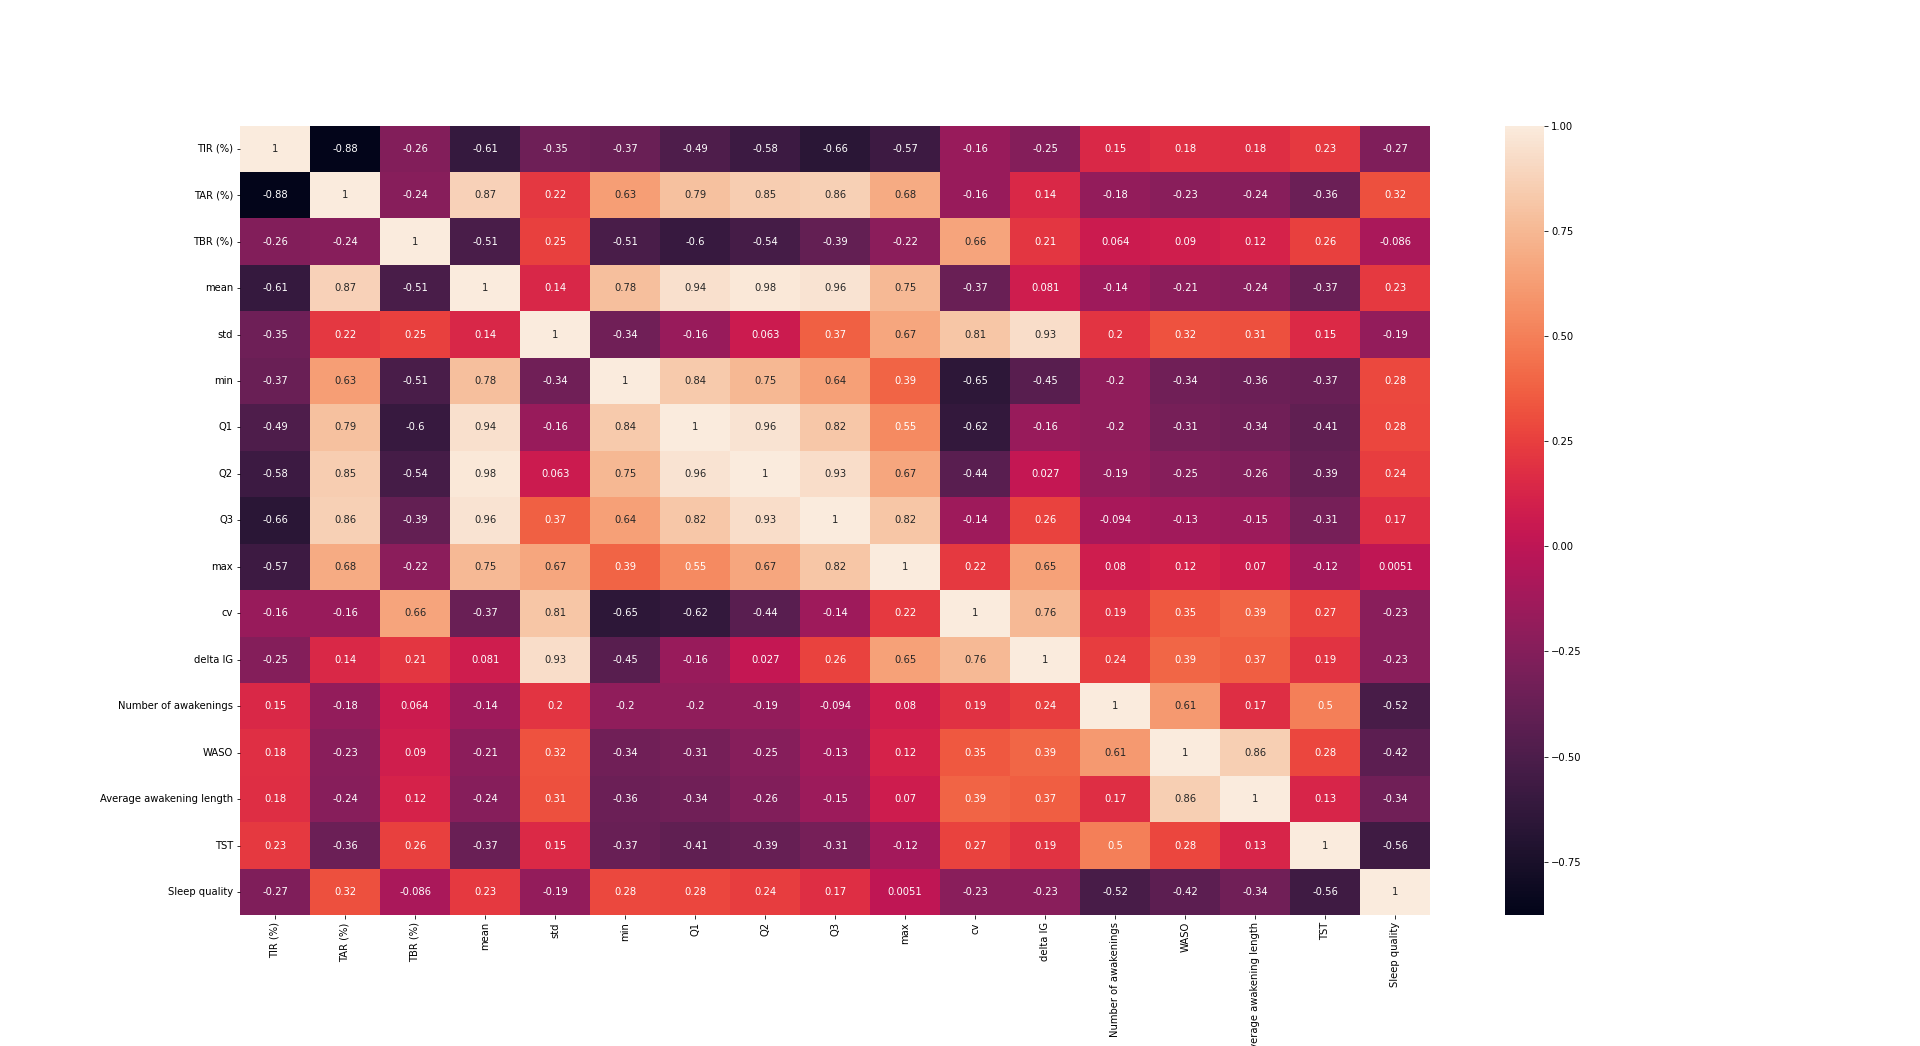
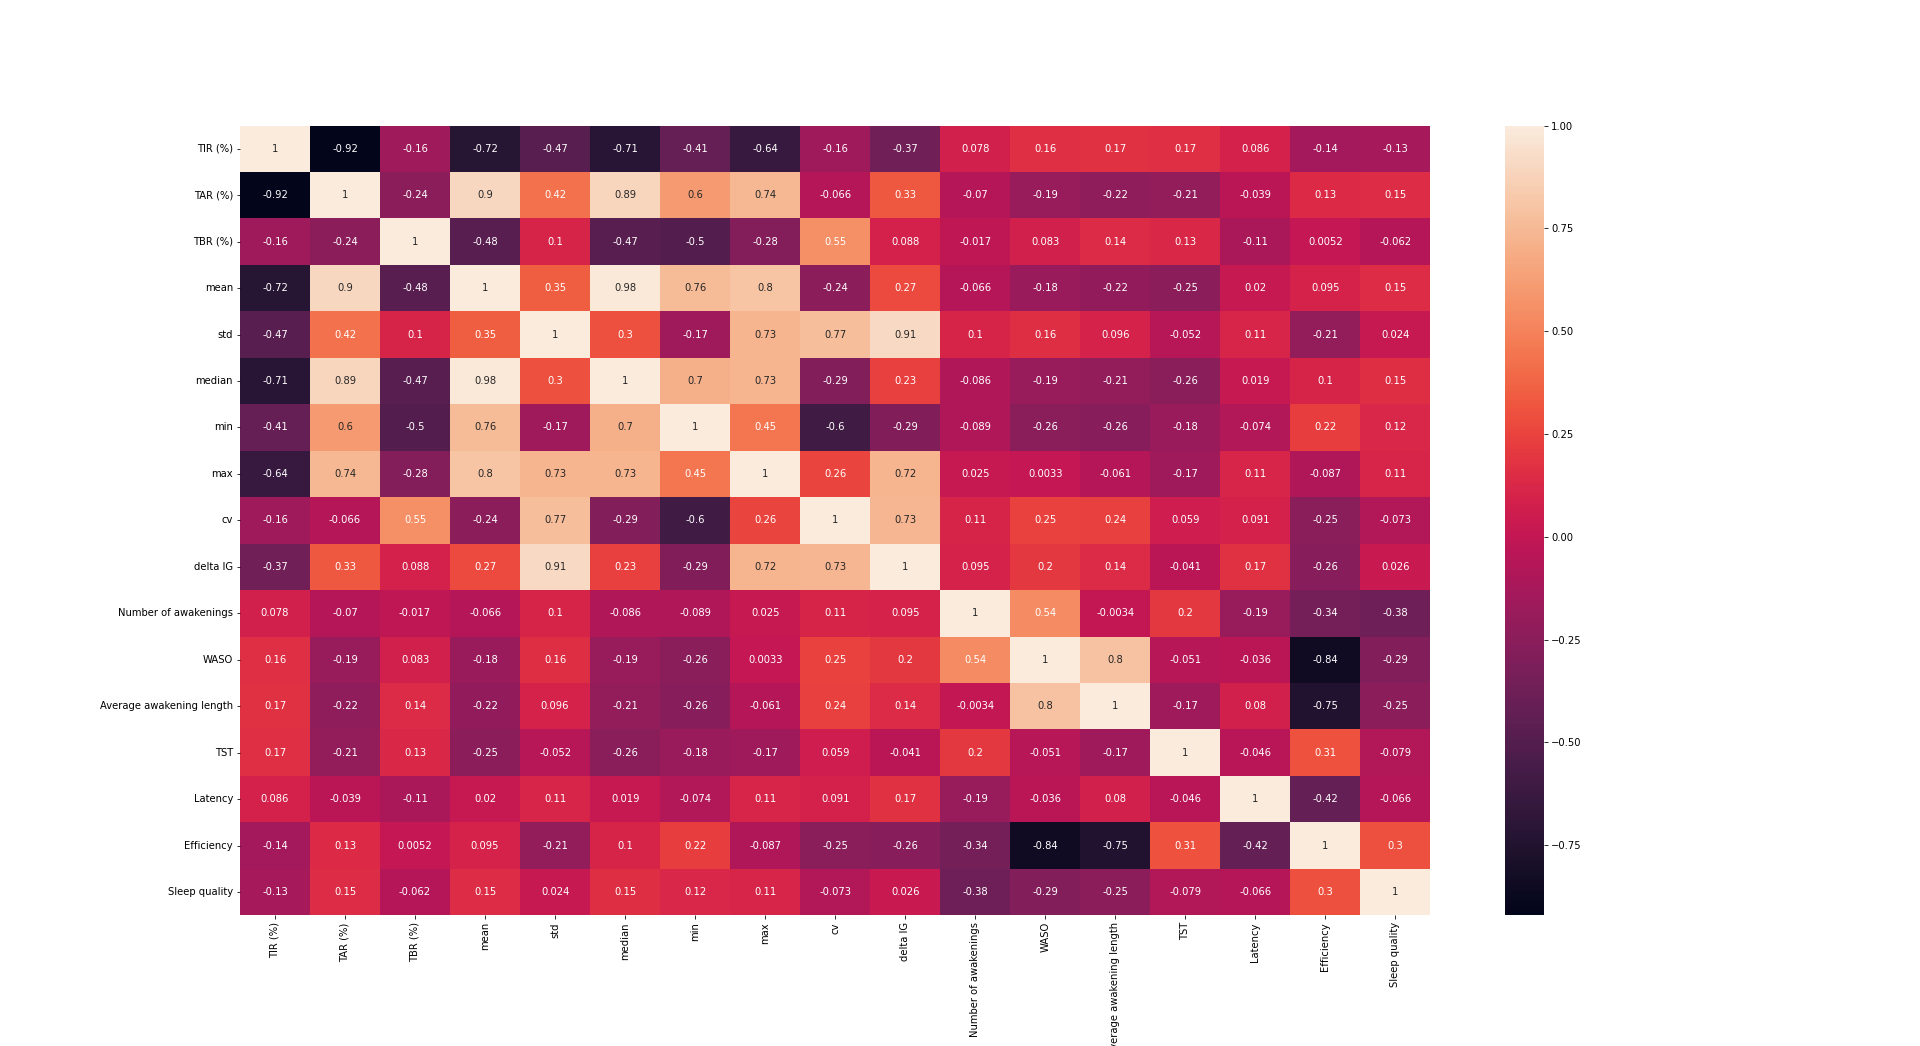
features changed

diff --git a/CGMStats.py b/CGMStats.py
@@ -20,18 +20,22 @@ def calc_stats(CGM_data):
     -------
     CGM_stats : list consisting of 'mean', 'std', 'min', 'max', 'cv', 'Q1', 'Q2', 'Q3'.
 
-    """
+    """ 
     # Calculate statistics
     CGM_stats = CGM_data.describe().T
     # Drop 'count' column
-    CGM_stats = CGM_stats.iloc[:, 1:]
+    CGM_stats = CGM_stats.drop(['count', '25%', '75%'], axis=1)
     # Reset index 
     CGM_stats = CGM_stats.reset_index(drop=True)
+     # Rename the columns
+    CGM_stats.rename(columns={'50%': 'median'}, inplace=True)
     # Calculate and include Coefficient of Variation (cv)
     cv = (CGM_stats['std'] / CGM_stats['mean']).values.tolist()
     CGM_stats['cv'] = cv
     deltaIG = (CGM_stats['max'] - CGM_stats['min']).values.tolist()
     CGM_stats['delta IG'] = deltaIG
+    # Reordering columns
+    CGM_stats = CGM_stats[['mean', 'std', 'median', 'min', 'max', 'cv', 'delta IG']]
     # Convert to list
     CGM_stats = CGM_stats.values.tolist()
     CGM_stats = [item for sublist in CGM_stats for item in sublist]
@@ -63,15 +67,13 @@ def hourly_stats(CGM_data_original):
     CGM_data_std = CGM_data.resample('H').std()
     CGM_data_min = CGM_data.resample('H').min()
     CGM_data_max = CGM_data.resample('H').max()
-    CGM_data_q1 = CGM_data.resample('H').quantile(0.25)
-    CGM_data_q2 = CGM_data.resample('H').quantile(0.50)
-    CGM_data_q3 = CGM_data.resample('H').quantile(0.75)
+    CGM_data_median = CGM_data.resample('H').quantile(0.50)
     CGM_data_cv = CGM_data_std/CGM_data_mean
     CGM_data_deltaIG = CGM_data_max-CGM_data_min
     
     # Create pandas dataframe with calculated hourly statistics
-    CGM_stats = pd.concat([CGM_data_mean, CGM_data_std, CGM_data_min, CGM_data_q1, CGM_data_q2, CGM_data_q3, CGM_data_max, CGM_data_cv, CGM_data_deltaIG], axis = 1)
-    CGM_stats.columns = ['mean', 'std','min', 'Q1', 'Q2', 'Q3', 'max','cv', 'delta IG']
+    CGM_stats = pd.concat([CGM_data_mean, CGM_data_std, CGM_data_median, CGM_data_min, CGM_data_max, CGM_data_cv, CGM_data_deltaIG], axis = 1)
+    CGM_stats.columns = ['mean', 'std', 'median', 'min', 'max','cv', 'delta IG']
     CGM_stats = CGM_stats.reset_index()
     
     # Convert to list

diff --git a/CGMFeatures.py b/CGMFeatures.py
@@ -15,9 +15,9 @@ from CGMStats import calc_stats, hourly_stats
 #%% Set the base directory where your files are located
 
 # Choose what study to import and process data from
-#study = "MindYourDiabetes"
-study = "Validationstudy_2020_2021_Cecilie"
-#study = "Sleep-1-child_2023_Cecilie"
+# study = "MindYourDiabetes"
+# study = "Validationstudy_2020_2021_Cecilie"
+study = "Sleep-1-child_2023_Cecilie"
 #study = "Kasper" 
 
 # Base directory/path
@@ -108,13 +108,13 @@ for family in families:
                                                                'Out Bed DateTime',
                                                                'TIR (%)', 'TAR (%)',
                                                                'TBR (%)', 'mean', 'std',
-                                                               'min', 'Q1', 'Q2', 'Q3', 
+                                                               'median', 'min',
                                                                'max','cv', 'delta IG'])
         
         CGM_h_stats = pd.DataFrame(CGM_h_stats_list, columns=['DateTime start', 
                                                                 'mean', 'std',
-                                                                'min', 'Q1', 'Q2',
-                                                                'Q3', 'max','cv', 'delta IG'])
+                                                               'median', 'min',
+                                                               'max','cv', 'delta IG'])
         
         CGM_h_ranges = pd.DataFrame(CGM_h_ranges_list, columns=['DateTime start',
                                                                 'TIR (%)','TAR (%)',

diff --git a/ActiFeatures.py b/ActiFeatures.py
@@ -16,9 +16,9 @@ from ActiFeaturesFunc import *
 #%% Set the base directory for the current family and session
 
 # Choose what study to import and preprocess data from
-study = "MindYourDiabetes"
+# study = "MindYourDiabetes"
 #study = "Validationstudy_2020_2021_Cecilie"
-# study = "Sleep-1-child_2023_Cecilie"
+study = "Sleep-1-child_2023_Cecilie"
 #study = "Kasper" 
 
 # Base directory/path

diff --git a/CorrelationMatrix.py b/CorrelationMatrix.py
@@ -12,7 +12,7 @@ import os
 import seaborn as sn
 import matplotlib.pyplot as plt
 
-base_dir = r"L:\LovbeskyttetMapper01\StenoSleepQCGM\MindYourDiabetes"
+base_dir = r"L:\LovbeskyttetMapper01\StenoSleepQCGM"
 cgm_file = "\concatenated_cgm.csv"
 epoch_file = "\concatenated_epochs.csv"
 
